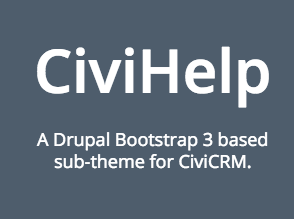
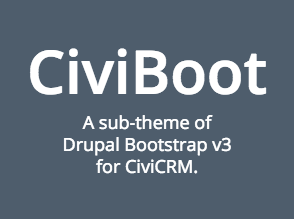
rename

Changed region(s): [[0.0918, 0.1918, 0.9184, 0.4932], [0.1224, 0.5205, 0.9184, 0.7945]]

diff --git a/css/style.css b/css/style.css
@@ -4,7 +4,7 @@
  */
 
 /**
- * change white labels of CiviVolinteer into gray
+ * change white labels of CiviVolunteer into gray
  * use it if background color is white.
  */
 .label {

diff --git a/README.md b/README.md
@@ -1,2 +1,5 @@
-# civihelp
- A CiviCRM theme based on Drupal Bootstrap v3.
+# CiviBoot
+
+A sub-theme of Drupal Bootstrap v3 for CiviCRM
+
+![CiviBoot](screenshot.png)
